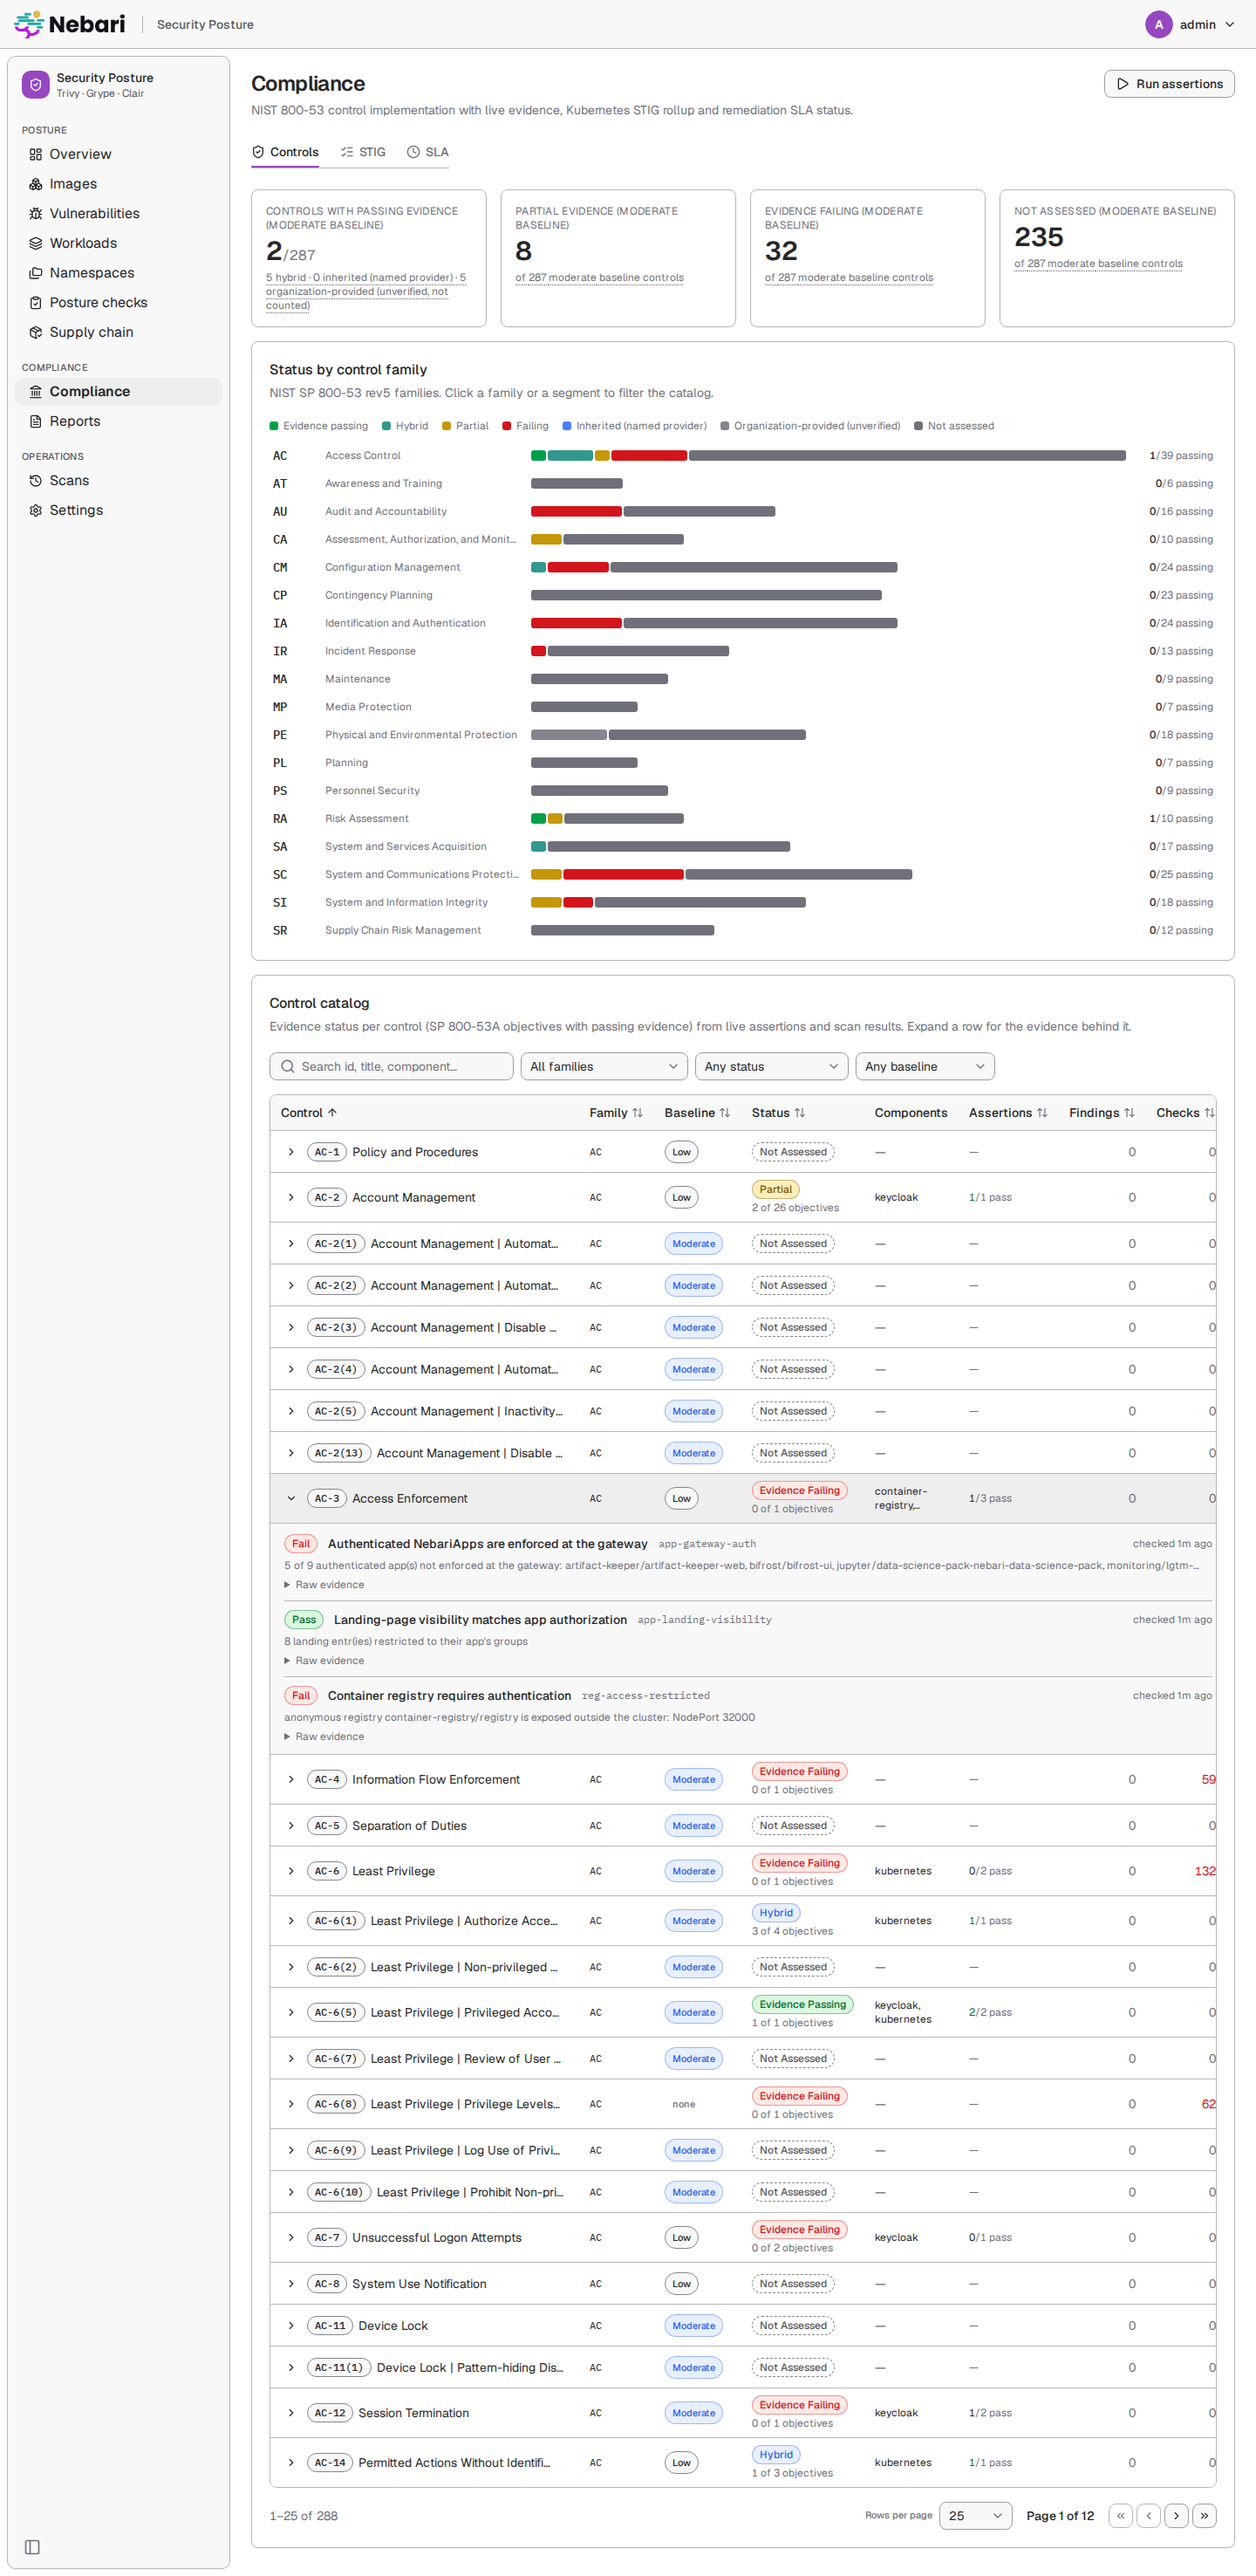
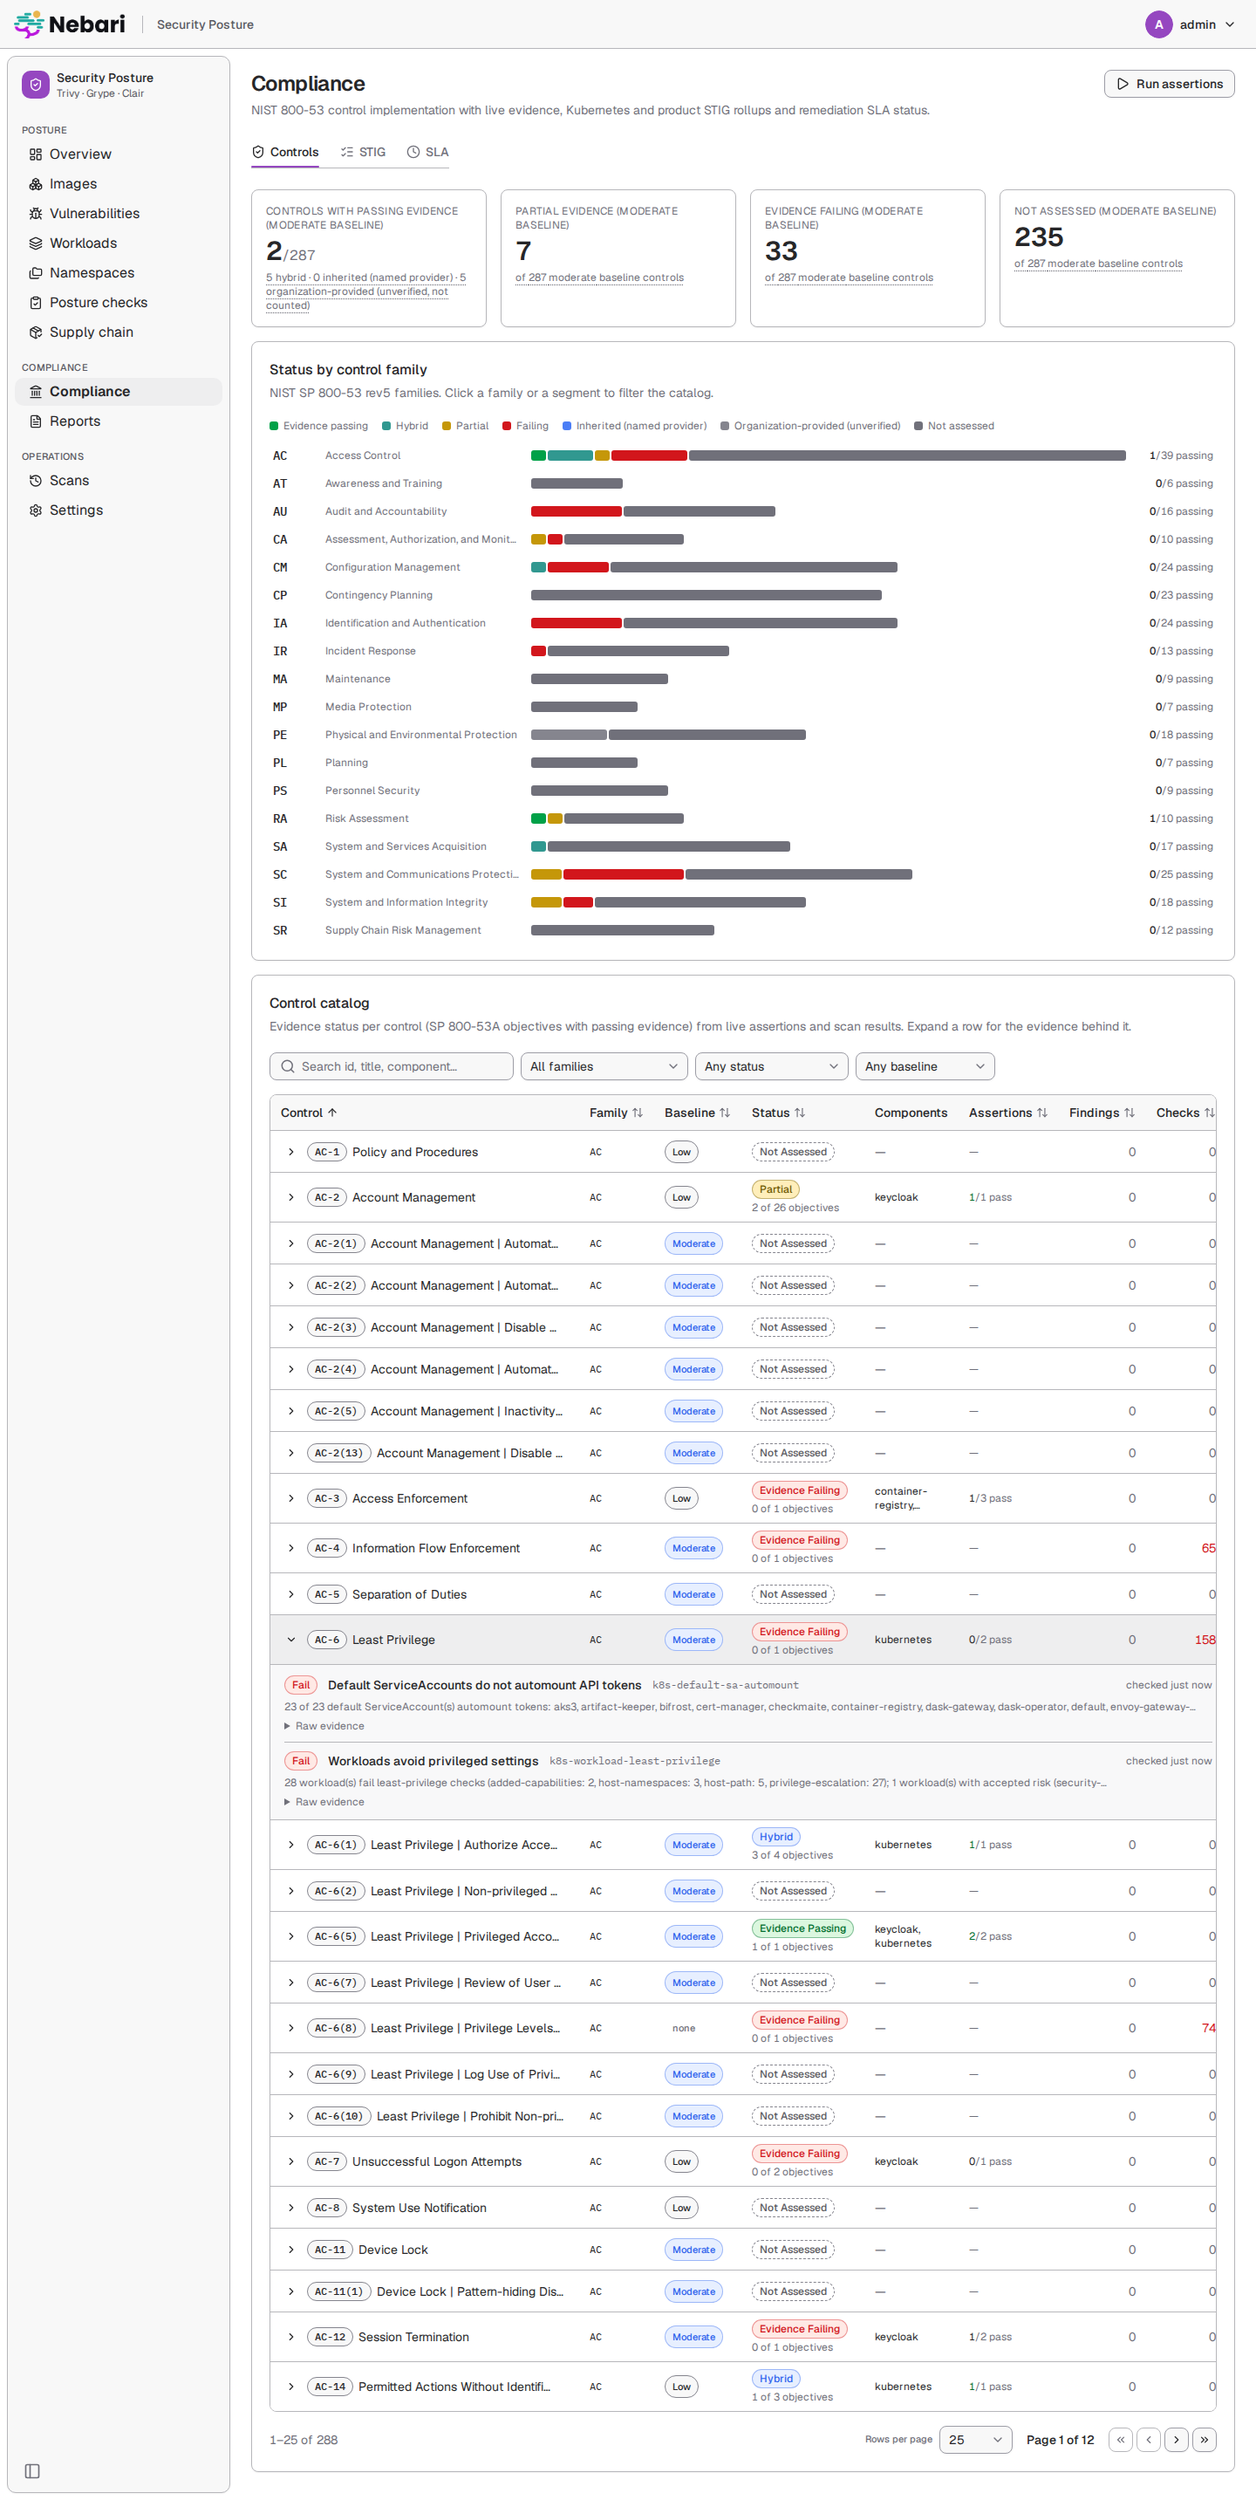
docs, screenshots: grace revision 22 (SCAP operations, generic VEX, risk acceptances)
DECISIONS "Grace deployment status" for revisions 20-22: the varchar(8) finalize
failure and its fix, scapPending / scap_completed ordering on scans #45 and #46,
SCAP wall time at parallelism 3 (18m21s for 83 images, I/O bound), stale results
through Docker Hub 429s, mirror verification records, CCIs on SSG RHEL 9 rules,
VEX suppression (api 55 / worker 96), the scap-worker risk acceptance in checks,
controls, POA&M and CRM, and the auto-report skip on an unforced full scan.
Screenshots: Scans list with STIG progress, keycloak STIG tab with CCIs, AC-6
evidence, and the added-capabilities check with the accepted risk (new
check-accepted-risk page in shoot-live.mjs).

diff --git a/docs/DECISIONS.md b/docs/DECISIONS.md
@@ -98,7 +98,132 @@
   `tests/conftest.py` sets `CONTROLS_ENGINE_ENABLED=false` by default so the shared worker harness
   never reaches a live cluster; `tests/controls_engine` enables it with fake clients.
 
-## Grace deployment status (2026-10-05, SCAP scanner, hardened images, Helm-index cache)
+## Grace deployment status (2026-10-05, SCAP operations, generic VEX, risk acceptances)
+
+- **Deployed**: helm revision 22 (2026-10-05 07:47:29 UTC), images `645d39d-1791186398` (api, worker,
+  ui), built from a clean worktree of origin/master. Revisions 20 (`3770549`, 06:06) and 21
+  (`1d8ffb0`, 06:33) were steps on the way (below). `alembic_version` = `0010_posture_status_len`.
+  Build 242 s cold for the new layers (rev 20), 50 s / ~60 s for the fix rebuilds; each helm upgrade
+  ~60 s. All pods Running, 0 restarts. No values change was needed: the `test-w3-integration`
+  namespace is gone, node memory requests were 99 % (about 600 Mi free), and the hooks (128 Mi)
+  scheduled. scap-worker resources as rendered: requests 100m / 128Mi (grace values), limits
+  3 CPU / 4Gi; `SCAP_PARALLELISM=3` (the log says "3 at a time"), `SCAP_FINALIZE_WAIT_SECONDS=0`.
+- **Revision 20 bug, fixed in 1d8ffb0**: the first scan (#44, event) failed in finalize with "value
+  too long for type character varying(8)". `posture_results.status` was varchar(8) and
+  `accepted-risk` is 13 characters. The SQLite-backed tests do not enforce lengths, and no Postgres
+  test persisted an accepted result. Migration `0010_posture_status_len` widens it to 16, and a
+  static test pins the column lengths. #44's SCAP stage still ran to completion.
+- **Revision 21 finding, fixed in 645d39d**: per-scan mirror warnings ("mirror copy … did not match
+  source digest; re-copied") stayed on 20 images after scan #46 had verified their copies. The
+  merge kept every old warning except "mirror failed …". Now "mirror copy …" warnings are replaced
+  by each rescan. The 20 rows clear when they are next rescanned (rescanAfterHours or a forced
+  scan); this was not observed live.
+
+**Scans after the rollout**
+
+| scan | trigger | rescanned | status, duration | SCAP stage | scapPending cleared | post-scan |
+|---|---|---|---|---|---|---|
+| #44 | event (rev 20) | 3 | **failed** 3m09s (varchar bug) | 83 queued (no content fingerprint yet), 06:09:31-06:32:24 (22m53s): 38 evaluated, 21 n/a, 5 noContent, 19 error (17 Docker Hub 429 kept **stale**, 2 "no digest") | n/a | none |
+| #45 | event (rev 21) | 3 | done **49 s**, scapPending | 20 (3 rescanned, 17 retried), 06:36:17-06:45:46: 2 evaluated, 1 noContent, 17 error -> 17 stale (Hub 429 again) | 06:45:49 | score 30.0 -> 29.9; "auto-reports skipped: event scan (targeted)"; controls run 38 06:45:50 |
+| #46 | **manual, forced (the one forced scan)** | 83 | done **12m31s** (07:01:37-07:14:08), scapPending | 83, 07:11:43-07:30:04 (**18m21s**): 44 evaluated, 32 n/a, 5 noContent, 2 error (ray / node-exporter, "no digest", not running), 0 stale | 07:30:07 | score re-aggregated 30.0; 6 reports queued 07:30:07.535-.573; controls run 39 07:30:07.676 |
+| #47 | manual, **not forced** (stands in for a scheduled scan) | 0 (83 fresh) | done 10 s | nothing to evaluate | - | "auto-reports skipped: no image rescanned and inventory unchanged" (same inventory hash as #46); controls run 40 |
+| #48 | event (rev 22) | 2 | done 1m42s | 2 evaluated, 07:52:08 | 07:52:13 | reports skipped (event) |
+
+- The next scheduled scan is due 10:40 UTC (`scheduler.next_scan`: #43 started 04:40 + 6 h; the
+  07:50 estimate predates #43). That was too far to wait, so #47 (manual, unforced) checked the
+  skip rule. `post_scan_plan` treats it exactly like a scheduled full scan.
+- #46 scanners: trivy, grype and clair each ok 83, error 0. Score 30.0 (F), vuln 9.4, posture 79.5.
+  The Scans list showed "STIG evaluation in progress (15/83)" under #46 and "(0/20)" under #45
+  (`scans-stig-in-progress.png`).
+- **SCAP wall time at parallelism 3: 18m21s for 83 images, not the ~10 min predicted** (rev 19: 28 min).
+  Summed `duration_ms` is 586 s (max 110 s, jupyterlab-sized images), rootfs written 42.1 GB. The
+  scap-worker used about 1.4 of 3 CPUs and 0.5 GiB. The longest gaps (2-3 min) are image copies
+  of the multi-GB images into the 8 GiB OCI cache, which evicts most layouts during a full pass.
+  The stage is I/O bound (copy and flatten), not oscap bound. The cache limit
+  (`scanner.scap.imageCacheMaxBytes`) and the hostpath disk are the levers; not tuned.
+
+**SCAP results**
+- **Stale instead of replaced**: in #44 and #45, 17 docker.io images failed to copy with 429 and kept
+  their previous result (`stats.stale` 17, "previous result kept, marked stale"). They included
+  `postgres@sha256:7218…` (DISA PostgreSQL) and bitnami/postgresql. All were genuinely
+  re-evaluated in #46. `summary.stig.stale` is 0 now.
+- The alpine:3.20 / postgres:16-alpine
+  results are good: alpine notApplicable and postgres:16-alpine DISA PostgreSQL evaluated, never
+  overwritten by an error.
+- **Why the scap-worker hit Docker Hub**: rev 19 left 20 docker.io images `mirrored=false` (#43's
+  mismatch loop). The SCAP stage copies from the mirror only for `mirrored` images, and from
+  upstream otherwise. Event scans #44 and #45 did not rescan those images, so the flag stayed stale
+  until #46. The Docker Hub limit on this host is `100;w=3600` and was at 0 from 06:46 until the
+  07:00 window reset. #46 was started at 07:01, at 100 remaining.
+- **Mirror**: #46 verified every copy. There were no "did not match" or "could not be verified"
+  verdicts in #44-#48. `mirror-verified.json` holds 67 records, and all 32 running docker.io images
+  are now `mirrored=true`, so later SCAP copies stay in-cluster.
+- **CCIs**: keycloak 26.6.4 (image 38, ssg-rhel9 STIG profile) has 68 pass / 14 fail / 393 n/a /
+  2 notchecked, score 85.3, as before.
+  - **420 of the 476 rules with a V-ID carry CCIs** (rule-level view of the content-level 424/480).
+    The others, such as V-258241 configure_crypto_policy and V-258134, have no CCI.
+  - The keycloak product checklist (`products/…keycloak…-scan48-….cklb`) has 420/477 rules with
+    CCIs. The rest say "No CCI: the SCAP content carries none for this rule and no DISA benchmark
+    on the content volume maps its STIG id".
+  - POA&M: 77 of 535 `SP-STIG-*` rows carry CCIs (0 in rev 19).
+- `summary.stig` reads: evaluated 44, pass 3774, fail 537, CAT I/II/III 20/390/127, coverage 53.0,
+  notApplicable 32, noContent 5, errors 2, stale 0, score 86.5.
+- **Helm**: #45 and #46: "chart update checks: 12 checked, 0 carried, **5 not configured, 0 error(s)**";
+  #47: "0 checked, 17 carried". #46 provenance took 142 s, 0 registry errors.
+
+**VEX** (pack statements, images `645d39d`; the same numbers on `3770549` and `1d8ffb0`)
+
+| image | score | open C/H/M/L | `findingsSummary.vexSuppressed` | justifications |
+|---|---|---|---|---|
+| security-posture-api | 12.2 F (was 0.0) | 0 / 4 / 57 / 58 | **55** | 43 not_in_execute_path, 8 not_present, 4 cannot_be_controlled |
+| security-posture-worker | 1.2 F (was 0.0) | 1 / 19 / 71 / 107 | **96** | 66 / 26 / 4 |
+
+- The numbers match the offline prediction in the VEX entry exactly. `/summary.vexSuppressed` is
+  151.
+- `findingsSummary` is only on `/images/{id}`. `/images?q=security-posture` rows carry the updated
+  score and counts, but no `findingsSummary`.
+- `/images/{id}?vex=suppressed` lists the 55 / 96 with `vexStatus`, `vexJustification`, `vexSource`
+  (posture-images.vex.json) and `vexDetail`. `vex=open` gives 124 for the api (69 distinct CVEs).
+- POA&M (#46): the api and worker repository rows list 69 / 123 CVEs and none of the suppressed ones.
+- vuln-export csv: api 55 and worker 96 rows `VEX Status not_affected` (Status `not_affected`, with
+  the impact statement), plus 4 / 19 `under_investigation` rows.
+
+**Controls and risk acceptance**
+- Posture results `added-capabilities` and `run-as-root` of the scap-worker are `accepted-risk`.
+  The run-as-root detail reads "runAsNonRoot is false and runAsUser is 0; accepted risk: …".
+  `/summary.checks` reads failed 515, acceptedRisk 2.
+- `k8s-workload-least-privilege` (runs 38-41) stays **fail** for the other workloads (27-28 as pods
+  churn). The scap-worker is in `evidence.acceptedRisk`, not in `evidence.workloads`. The detail
+  ends "1 workload(s) with accepted risk (security-posture/Deployment/security-posture-scap-worker)".
+  AC-6 and CM-7 stay failing because of the other workloads.
+- **POA&M** row `SP-RA-ad9dffd94c`: "Risk acceptance: security-posture/Deployment/security-posture-scap-worker".
+  - Controls AC-6, CM-7, SC-39; Operational Requirement Yes.
+  - Deviation Rationale is the reason; scheduled completion and review date are 2027-04-03.
+- **CRM** "Risk acceptances" sheet: covers added-capabilities, run-as-root and
+  k8s-workload-least-privilege; reason, approver, "no expiry", review by 2027-04-03, status active,
+  3 accepted results, source values.
+- Reports #46: poam 13 s, stig-checklist cklb 10 s, sar pdf 114 s, oscal-ar 18 s (28 MB),
+  inventory 9 s, vuln-export 10 s. The manual stig-checklist zip has 91 entries.
+
+**UI** (`deploy/grace/screenshots/`):
+- `scans-stig-in-progress.png` (#46 "STIG evaluation in progress (15/83)")
+- `image-stig.png` (keycloak STIG tab, CCIs column)
+- `compliance-controls.png` (AC-6 expanded: least-privilege fail with the accepted-risk note)
+- `check-accepted-risk.png` (`/checks/added-capabilities`: scap-worker "Accepted Risk" with reason
+  and review date; "126 / 3 + 1 accepted risk")
+
+**Not verified / open**
+- The SCAP stage is not ~10 min. It took 18m21s, and is I/O bound (see above).
+- A real *scheduled* scan with 0 rescanned was not observed (due 10:40 UTC). The unforced manual
+  #47 exercised the same rule.
+- The cleanup of the 20 sticky mirror warnings has not been observed yet (it happens on the next
+  rescan of each image).
+- The SAR and OSCAL AR contents (risk-acceptance table, VEX exclusion) were not opened. Only the
+  POA&M, CRM, vuln-export and checklist were checked.
+- Docker Hub is still unauthenticated (`registryAuth.existingSecret` unset). Any scan that needs
+  upstream manifests can exhaust the 100/h limit.
+
+## Grace deployment status (2026-10-05, SCAP scanner, hardened images, Helm-index cache; superseded by the section above)
 
 - **Deployed**: helm revision 19 (2026-10-05 04:10:46 UTC), images `01cb9a1-1791172442` (api, worker,
   ui), built from a clean worktree of origin/master 01cb9a1. The build took 62 s because every
@@ -1234,10 +1359,11 @@ columns, CycloneDX merge, POA&M and `open_findings`), `tests/test_vex_integratio
 local mirror mode, `/images` filter and summary, `/summary`, `/vulnerabilities`, control
 coverage, `/export`, report snapshot -> CycloneDX and POA&M, statement removal reopens).
 
-## 2026-10-05: SCAP operations after grace revision 19 (not deployed)
+## 2026-10-05: SCAP operations after grace revision 19 (deployed in revisions 20-22)
 
-Fixes for what "Grace deployment status (2026-10-05, SCAP scanner ...)" observed. None of this is
-deployed; the effects below are what revision 19's numbers predict.
+Fixes for what "Grace deployment status (2026-10-05, SCAP scanner ...)" observed. Deployed in
+revisions 20-22; the effects below were predicted from revision 19's numbers. For the measured
+results, see "Grace deployment status (2026-10-05, SCAP operations, generic VEX, risk acceptances)".
 
 **SCAP duration and "scap pending".**
 - The scap stage evaluates `SCAP_PARALLELISM` images at a time (chart `scanner.scap.parallelism`, 3).
